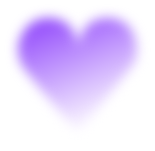
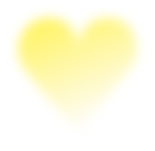
Add files via upload

diff --git a/index.html b/index.html
@@ -3,10 +3,11 @@
 <head>
     <meta charset="UTF-8">
     <meta name="viewport" content="width=device-width, initial-scale=1.0">
+    <script src="https://ajax.googleapis.com/ajax/libs/jquery/3.6.0/jquery.min.js"></script>
 <link rel="preconnect" href="https://fonts.googleapis.com">
 <link rel="preconnect" href="https://fonts.gstatic.com" crossorigin>
 <link href="https://fonts.googleapis.com/css2?family=Italianno&family=Lobster&family=Niconne&family=Noto+Sans+KR:wght@100..900&family=Story+Script&display=swap" rel="stylesheet">
-    <link rel="stylesheet" href="css/index.css">
+    <link rel="stylesheet" href="/css/index.css">
     <title>지안이의 첫번째 생일파티에 초대합니다!</title>
 </head>
 <body>
@@ -14,10 +15,10 @@
         <span class="sub">1st Birthday</span>
         <h1>Happy BrithDay</h1>
         <div class="image">
-            <span class="deco deco1"><img src="images/deco.png" alt="deco"></span>
-            <span class="deco deco2"><img src="images/deco.png" alt="deco"></span>
-            <span class="deco deco3"><img src="images/deco.png" alt="deco"></span>
-            <img src="images/jian-1.png" alt="jian image">
+            <span class="deco deco1"><img src="/images/deco.png" alt="deco"></span>
+            <span class="deco deco2"><img src="/images/deco.png" alt="deco"></span>
+            <span class="deco deco3"><img src="/images/deco.png" alt="deco"></span>
+            <img src="/images/jian-1.png" alt="jian image">
             <p>My 1st year</p>
         </div>
         <div class="info">
@@ -26,11 +27,35 @@
         </div>       
     </div>
     <div class="page-2 page">
-
+        <div class="title">
+            <p>지안이의 첫번째 생일파티에 초대합니다 💌</p>
+        </div>
+        <div class="image-box">
+            <img src="images/page2-image.jpg" alt="지안">
+        </div>
+        <div class="text-box">
+            <p>지안이가 무럭무럭 자라 <br>어느덧 첫번째 생일을 맞이하였습니다.
+            <p>지안이에게 사랑과 관심을 주신 분들께 <br>감사 인사를 전하고자<br>
+                작은 자리를 마련하였습니다.<br></p>
+            <p>지안이의 첫번째 생일이라는 뜻 깊은날 <br>함께 해주시어 자리를 더욱 더 빛내주시면 감사하겠습니다.</p>
+            
+             <p><span>아빠 안태일</span><span>엄마 김지은</span></p>
+        </div>
     </div>
     <div class="page-3 page">
+        <div class="loca-info">
+            <p>돌잔치 안내</p>
+            <p class="location">하이게이트
+                <span>경기 화성시 동탄구 동탄장지천6길 9 101호<button type="button" class="copy-btn">복사</button></span>
+                
+            </p>
+
+            <p class="time">2026년 6월 27일 토요일 오후5:00</p>
+        
+            
+        </div>
         <div class="image">
-            <img src="" alt="">
+            <img src="images/page3-imag.jpg" alt="">
         </div>
         <div class="calendar">
             <div class="month">6월</div>
@@ -96,3 +121,21 @@
 
 </body>
 </html>
+
+<script>
+    // import jquery from 'https://esm.sh/jquery@3.5.1';
+//URL 복사
+	function copyClip(url){
+		var $temp = $('<input>');
+		$('body').append($temp);
+		$temp.val(url).select();
+		document.execCommand('copy');
+		$temp.remove();
+		alert('URL이 복사되었습니다.');
+	}
+	$('.copy-btn').on('click', function(e){
+		e.preventDefault();
+		var link = location.href;
+		copyClip('경기 화성시 동탄구 동탄장지천6길 9 101호');
+	});
+</script>

diff --git a/css/index.css b/css/index.css
@@ -62,7 +62,7 @@ body{
     line-height: 1;
 }
 div.page{
-    height: 100vh;
+  
     padding: 30px 20px 0;
 }
 
@@ -106,9 +106,9 @@ div.page{
     font-weight: 400;
     font-style: normal;
     text-align: center;
-    font-size: 50px;
+    font-size: 45px;
     color: #B582FF;
-    margin: 65px 0 60px;
+    margin: 50px 0 55px;
     letter-spacing: -2px
 }
 .page-1 .image {
@@ -158,34 +158,125 @@ div.page{
 
 .page-1 .info p.name{
     font-family: 'MaruBuri';
-    font-size: 25px;
+    font-size: 22px;
     margin-bottom: 15px;
    
 }
-
+.page-1 .info p.date{
+    letter-spacing: -0.5px;
+}
 .page-1 .info p.date::before{
     content: "";
     display: block;
-    width: 40px;
+    width: 30px;
     height: 2px;
     background: #B582FF;
     left: 50%;
     margin: 0 auto 15px;
 }
 
-.page-2{
-    background-color: #333;
+.page-2.page{
+    text-align: center;
+    padding: 100px 0 0 0;
 }
 
-.page-3{
-    background-color: aqua;
+.page-2 .title p{
+    color: #5C1FC4;
+    font-family: 'MaruBuri';
+
+    font-size: 15px;}
+
+.page-2  .image-box{
+    margin-top: 40px;
+}
+.page-2  .image-box img{
+    width: 100%;
+}
+
+.page-2 .text-box{
+    padding: 50px 20px;
+    width: 270px;
+    margin: 0 auto;
+}
+
+.page-2 .text-box p{
+    font-family: 'MaruBuri';
+    font-size: 15px;
+    color: #858585;
+    margin-bottom: 25px;
+    line-height: 1.9;
+}
+
+.page-2 .text-box p:last-child{
+    margin-top: 50px;
+    position: relative;
+}
+
+.page-2 .text-box p:last-child::after{
+    content: "";
+    position: absolute;
+    width:25px;
+    height: 1px;
+    background-color: #858585;
+    left: 45%;
+    top: -20px;
+}
+
+.page-2 .text-box p span{
+    font-size: 14px;
+}
+.page-2 .text-box p span:first-child{
+    display: inline-block;
+    margin-right: 10px;
+}
+
+div.page-3.page{
+    height: auto;
+}
+.page-3 .loca-info {
+    text-align: center;
+}
+
+.page-3 .loca-info p:first-child{color: #5C1FC4; font-size: 18px; font-weight: 600; margin-bottom: 15px;}
+.page-3 .loca-info p.time{color: #6B6B6B;}
+.page-3 .loca-info p.location{
+    color: #6B6B6B;
+    margin-top: 15px;
+    font-size: 18px;
+    font-weight: bold;
+}
+.page-3 .loca-info p.location span{
+    display: block;
+    margin: 5px 0;
+    font-size: 16px;
+    font-weight: normal;
+}
+.page-3 button{
+    background-color: transparent;
+    border: none;
+    padding: 0;
+    width: auto;
+}
+.page-3 .copy-btn{
+    color: #529CFF;
+    margin-left: 5px;
+}
+
+.page-3 .image{
+    margin-top: 50px;
+}
+.page-3 .image img{
+    width: 100%;
+}
+.page-3 .calendar{
+    text-align: center;
+    background-color: #fff;
+    padding: 20px 20px 30px;
+    font-family: 'MaruBuri';
 }
 
 .page-3 .calendar{
-    text-align: center;
-    background-color: #eee;
-    padding: 20px 20px 30px;
-    font-family: 'MaruBuri';
+    margin-top: 10px;
 }
 .page-3 .calendar .month{
     font-size: 22px;
@@ -195,7 +286,7 @@ div.page{
 .page-3 .week{
     display: flex;
     justify-content: space-around;
-    margin: 20px 0;
+    margin: 30px 0;
 }
 
 .page-3 .week .day:first-child{
@@ -214,7 +305,7 @@ div.page{
 }
 
 .page-3 .date div.weekly{
-    margin-bottom: 15px;
+    margin-bottom: 22px;
 }
 .page-3 .date div.date5{margin: 0;}
 .page-3 .date div.weekly div{
@@ -234,7 +325,9 @@ div.page{
     border-radius: 50%;
     position: absolute;
     z-index: -999;
-    top: -9px;
-    bottom: 0;
-    left: 5px;
+      top: 0;
+    /* bottom: 0; */
+    left: 0;
+    transform: translate(20%, -30%);
 }
+
